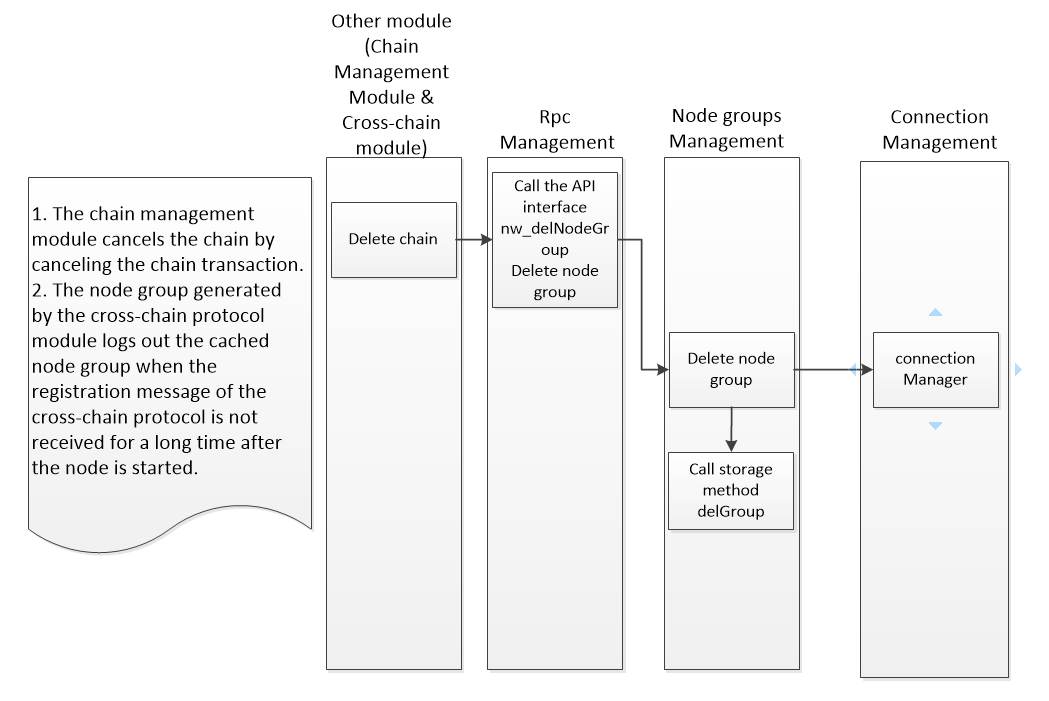
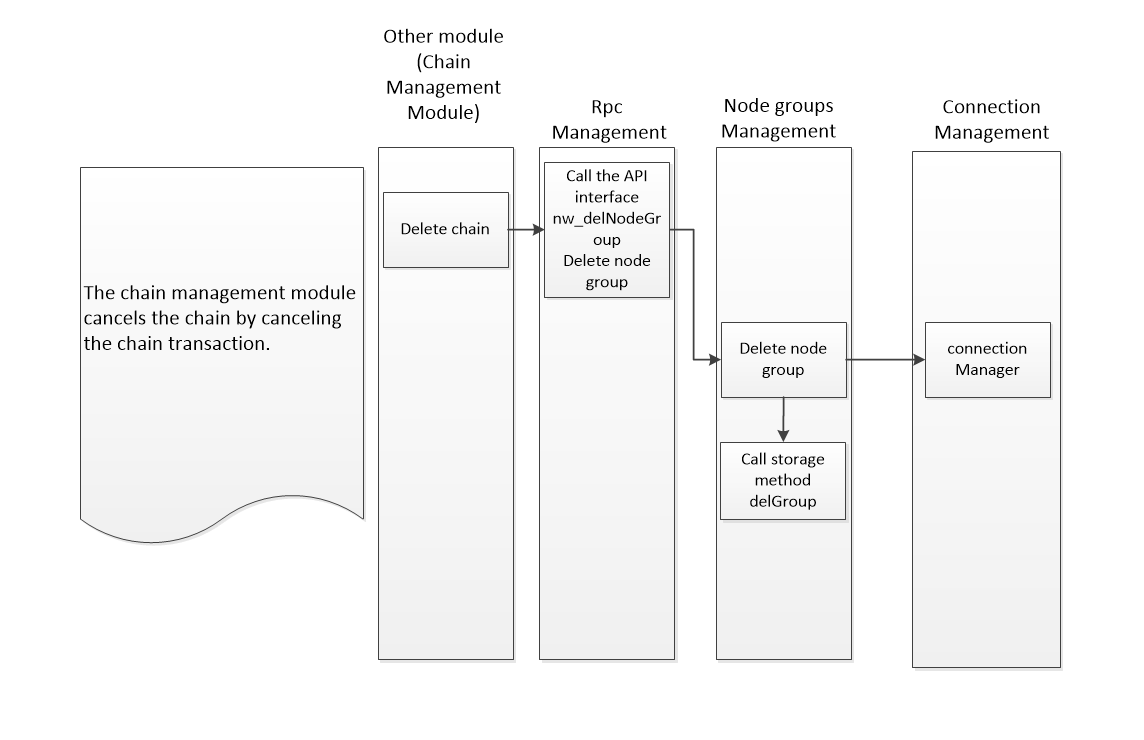
update delete nodegroup logic

diff --git a/design-en/c.Network design v1.3.md b/design-en/c.Network design v1.3.md
@@ -334,6 +334,12 @@ certain nodes (which can be 1 node) send messages.
 
 * Process description
 
+   The actual creation of a NodeGroup also has two kinds of logic:
+
+  1> Generate your own network group (or data load call) by loading the configuration file.
+
+  2> Call by external module: Create a network group as confirmed by registering cross-chain transactions.  
+
   ![](./image/network-module/createNodeGroup.png)
 
 * interface definition
@@ -416,9 +422,7 @@ Relies on remote service interface data provided by the kernel module.
 
    Receive a call from an external module and unregister the cross-chain node group.
 
-  1>  As a satellite chain node, the chain management module performs  deregistration, and the system generates a transaction verification  confirmation and then calls it.
-
-  2> As a  friend chain node, the registration cross-chain request is not accepted n  minutes after the cross-chain protocol is started, and the timeout node  group is cancelled.  
+   As a satellite chain node, the chain management module performs  deregistration, and the system generates a transaction verification  confirmation and then calls it.  
 
 - Process description
 
@@ -724,7 +728,9 @@ Relies on remote service interface data provided by the kernel module.
 
    After receiving the command, disconnect all the peers under the specified nodeGroup and reconnect to the network.
 
-  (Do you want to delete the peer node under the nodeGroup and re-discover the peer?)  
+       Refresh the peer connection under nodegroup and restart the network connection.
+
+       If  the peer connection is owned by multiple network services, you only  need to cancel the association. If only the service is used by itself,  you can disconnect.  
 
 - Interface definition
 
@@ -1252,6 +1258,10 @@ The criteria for the stability of network module start-up connection are: no new
         After the TCP connection is complete with the server, the client needs to handshake through the rervice version protocol. Only the connection with successful handshake can forward the service. The state in the connection cannot be transitioned to connected after X minutes, and the connection is actively disconnected.
 
   ![](./image/network-module/connection.png)
+
+ PS: In order to meet the  requirements of one process carrying multiple-chain services at the same  time, after a node peer connection is established, multiple NodeGroup  services should be satisfied.
+
+That is, the node peer connection and the nodeGroup object are many-to-many, n:n relationships.  
 
 
 

diff --git a/design-zh-CHS/c.网络模块设计v1.3.md b/design-zh-CHS/c.网络模块设计v1.3.md
@@ -323,6 +323,14 @@
 
 * 流程描述
 
+
+
+   NodeGroup的实际创建也有2种逻辑：
+
+  1>通过配置文件加载产生自有的网络组(或者数据加载调用)。
+
+  2>通过外部模块的调用：如注册跨链交易的确认创建网络组。
+
   ![](./image/network-module/createNodeGroup.png)
 
 * 接口定义
@@ -408,9 +416,7 @@
 
   接收外部模块的调用，注销跨链节点组。
 
-  1>作为卫星链节点，由链管理模块进行注销登记，系统产生交易验证确认后调用。
-
-  2>作为友链节点，在跨链协议启动后n分钟未接受到注册跨链的请求，注销超时的节点组。
+  作为卫星链节点，由链管理模块进行注销登记，系统产生交易验证确认后调用。
 
 - 流程描述
 
@@ -710,13 +716,15 @@
 
   接收指令后，对指定的nodeGroup下的所有peer进行断连接后，重新连接网络。
 
-  （是否要删除nodeGroup下peer节点，并重新去发现peer）
+  重新刷新nodegroup下peer 连接地址 ，并重启网络连接。
+
+  如果peer连接 为多个 网络业务所有，则只需要取消关联关系，如果只有自身业务使用，则可以断开连接。
 
 - 接口定义
 
   - 接口说明
 
-    获取卫星链种子节点
+    重新刷新并连接网络节点
 
     method : nw_reconnect
 
@@ -1242,7 +1250,9 @@
 
 ![](./image/network-module/connection.png)
 
+ PS：为了满足一个进程同时承载多链业务需求，一个node peer 连接建立后，应该满足多个NodeGroup业务。
 
+         即 node peer connection 与 nodeGroup 对象间是 多对多，n:n 关系。
 
 - 依赖服务
 
